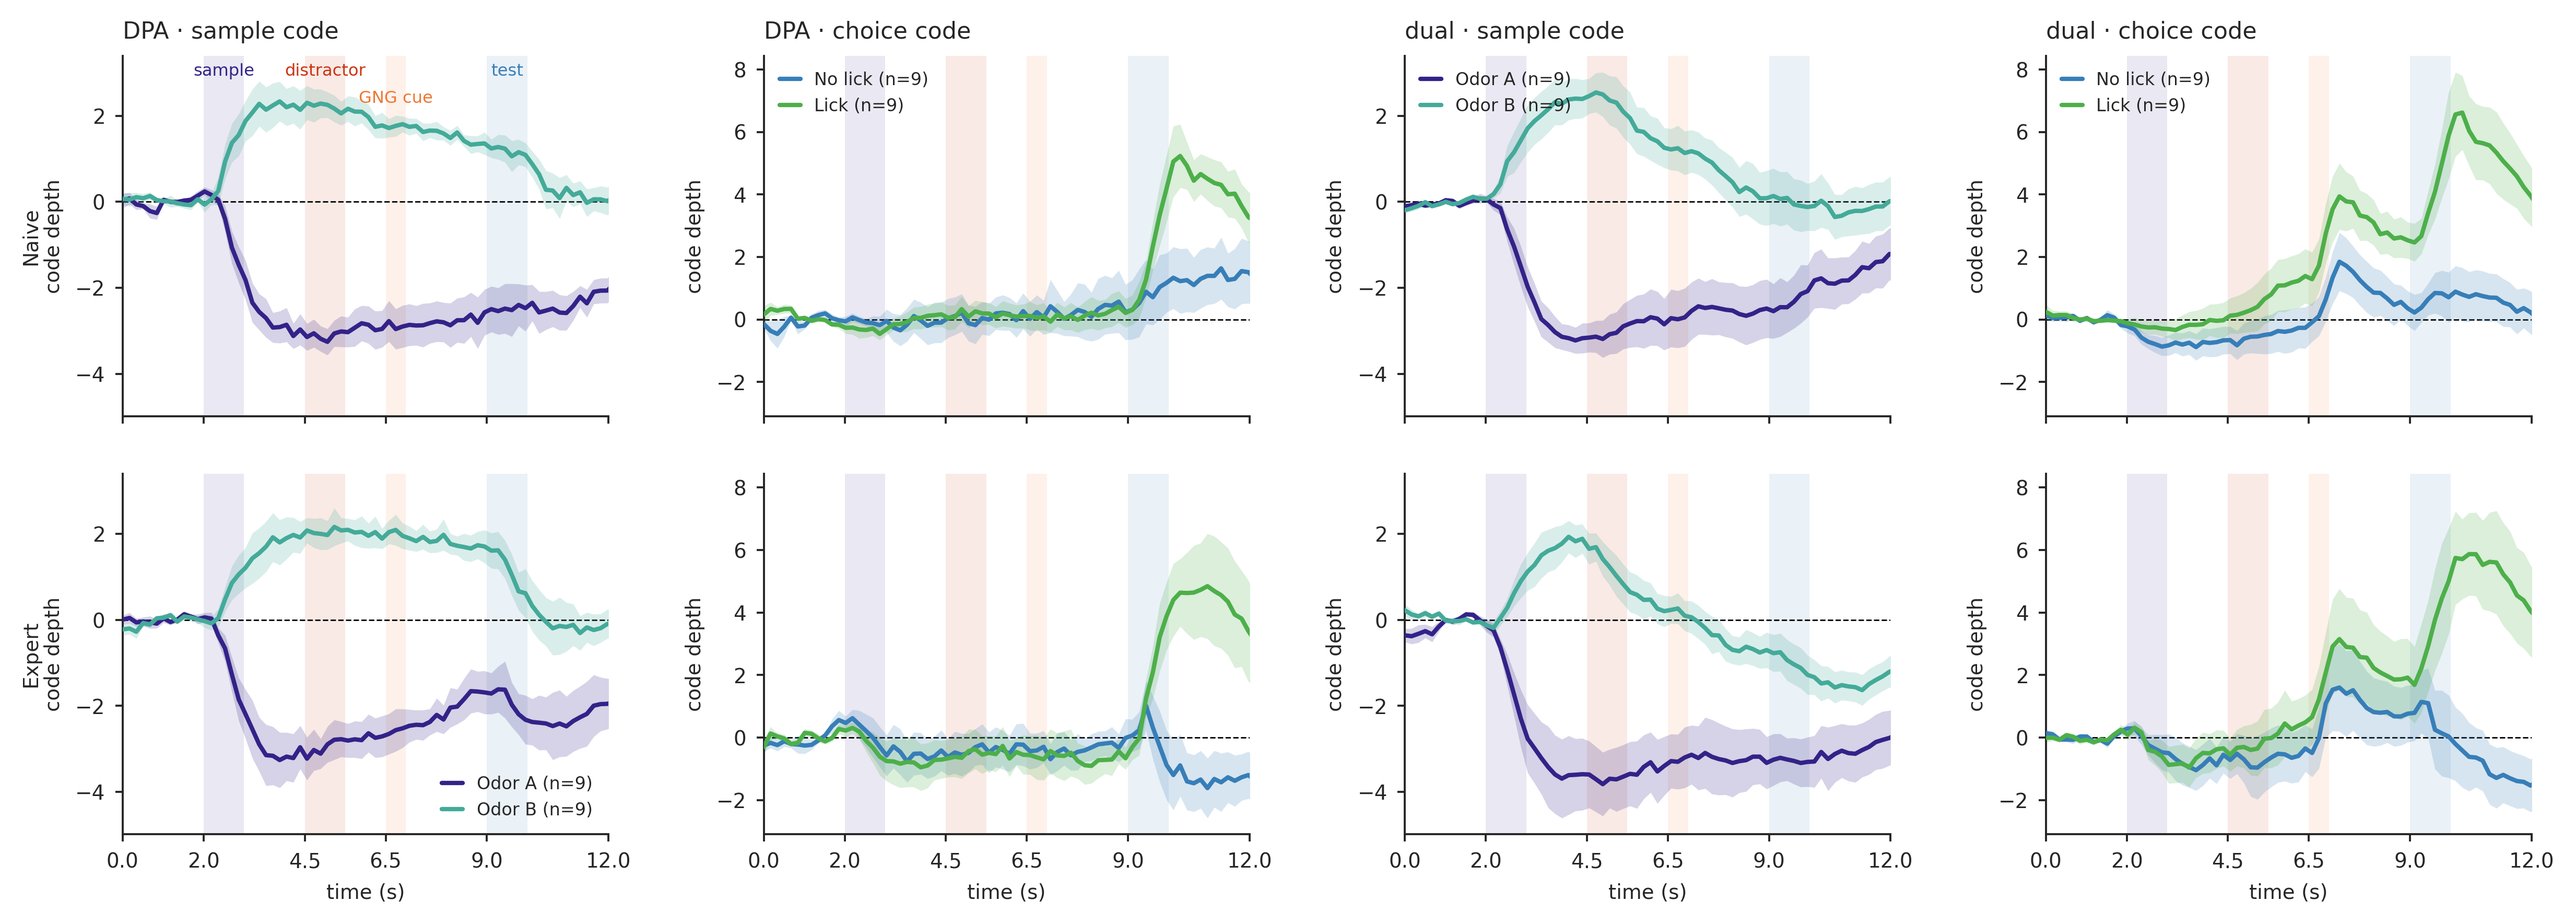
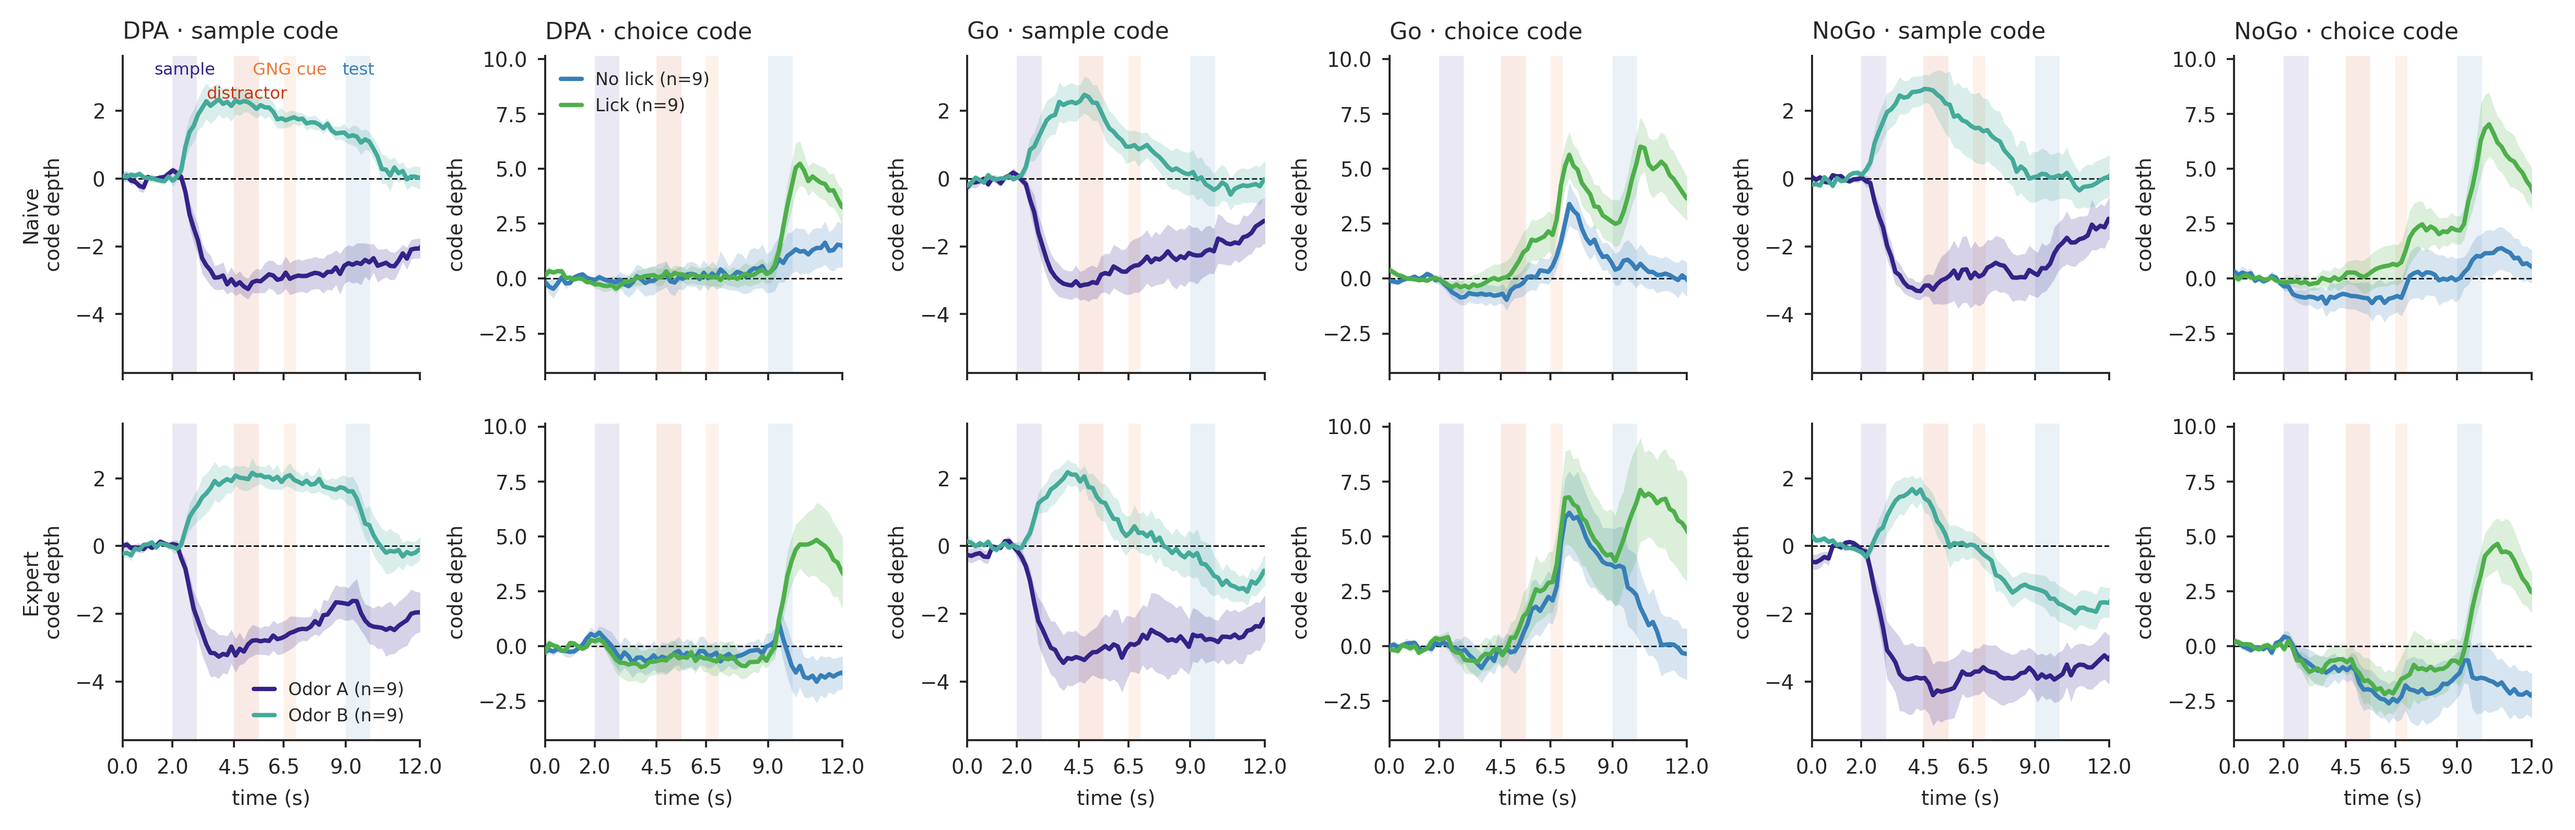
Task-split variant: separate Go and NoGo columns (2x6)
exp_traj_orig.py caches per-task keys (@go/@nogo alongside @dual); the variant
figure becomes DPA | Go | NoGo x sample/choice (rows Naive/Expert, y shared per
code). Go choice shows both classes riding up at the cue (all correct Go trials
lick it) before the test split; NoGo choice shows the Expert withholding dip;
the post-distractor sample decay is visible in both dual tasks. Gallery card
relabelled.

Claude-Session: https://claude.ai/code/session_01U5815xHXRaRQ7YCxMTgCsM

diff --git a/pca/fig_traj_tasksplit.py b/pca/fig_traj_tasksplit.py
@@ -38,15 +38,20 @@ assert TKEY in RES and ('Naive', 'sample@dual', 0) in RES[TKEY], \
     f'missing {TKEY} @dual keys — run exp_traj_orig.py' + (' --pca' if PCA else '')
 TR = RES[TKEY]; xt = np.asarray(RES['ORIG_XTIME'])
 
-# columns: (title, trace key, class labels, class colours)
-COLS = [('DPA · sample code',  'sample',      ['Odor A', 'Odor B'],   [SAMPC[0], SAMPC[1]]),
-        ('DPA · choice code',  'lick',        ['No lick', 'Lick'],    ['#377eb8', '#4daf4a']),
-        ('dual · sample code', 'sample@dual', ['Odor A', 'Odor B'],   [SAMPC[0], SAMPC[1]]),
-        ('dual · choice code', 'lick@dual',   ['No lick', 'Lick'],    ['#377eb8', '#4daf4a'])]
+# columns: (title, trace key, class labels, class colours) — Go and NoGo SEPARATED (2026-08-31)
+SCL = (['Odor A', 'Odor B'], [SAMPC[0], SAMPC[1]])
+LCL = (['No lick', 'Lick'], ['#377eb8', '#4daf4a'])
+COLS = [('DPA · sample code',  'sample',       *SCL),
+        ('DPA · choice code',  'lick',         *LCL),
+        ('Go · sample code',   'sample@go',    *SCL),
+        ('Go · choice code',   'lick@go',      *LCL),
+        ('NoGo · sample code', 'sample@nogo',  *SCL),
+        ('NoGo · choice code', 'lick@nogo',    *LCL)]
 
-# y-limits shared per CODE (both task columns, both stages) — the DPA-vs-dual comparison IS the point
+# y-limits shared per CODE (all task columns, both stages) — the cross-task comparison IS the point
 YL = {}
-for code_group, keys in [('sample', ['sample', 'sample@dual']), ('choice', ['lick', 'lick@dual'])]:
+for code_group, keys in [('sample', ['sample', 'sample@go', 'sample@nogo']),
+                         ('choice', ['lick', 'lick@go', 'lick@nogo'])]:
     lo, hi = 0.0, 0.0
     for key in keys:
         for stage in ['Naive', 'Expert']:
@@ -57,15 +62,15 @@ for code_group, keys in [('sample', ['sample', 'sample@dual']), ('choice', ['lic
     pad = 0.05 * (hi - lo)
     YL[code_group] = (lo - pad, hi + pad)
 
-fig, axs = plt.subplots(2, 4, figsize=(12.4, 4.6), sharex=True)
-fig.subplots_adjust(left=0.055, right=0.985, top=0.92, bottom=0.11, wspace=0.32, hspace=0.16)
+fig, axs = plt.subplots(2, 6, figsize=(12.4, 4.2), sharex=True)
+fig.subplots_adjust(left=0.055, right=0.985, top=0.90, bottom=0.12, wspace=0.42, hspace=0.16)
 for r, stage in enumerate(['Naive', 'Expert']):
     for k, (ttl, key, labs, cols) in enumerate(COLS):
         ax = axs[r, k]
         for ei, (nm, lo, hi, col) in enumerate(EVENTS):
             ax.axvspan(lo, hi, color=col, alpha=0.10, lw=0)
             if r == 0 and k == 0:
-                yl = 0.905 if nm == 'GNG cue' else 0.98      # stagger: it abuts 'distractor'
+                yl = 0.905 if nm == 'distractor' else 0.98   # stagger the wide middle label
                 ax.text((lo + hi) / 2, yl, nm, transform=ax.get_xaxis_transform(),
                         ha='center', va='top', fontsize=5.8, color=col)
         for lv, lab, col in zip((0, 1), labs, cols):
@@ -78,7 +83,7 @@ for r, stage in enumerate(['Naive', 'Expert']):
         ax.set_xlim(0, 12); ax.set_xticks([0, 2, 4.5, 6.5, 9, 12])
         if r == 0:
             ax.set_title(ttl, loc='left', fontsize=TITLE_FS)
-            if k > 0:
+            if k == 1:                              # ONE legend per code type (cols repeat them)
                 ax.legend(frameon=False, fontsize=6.0, handlelength=1.2, loc='upper left')
         else:
             ax.set_xlabel('time (s)', fontsize=7)

diff --git a/pca/exp_traj_orig.py b/pca/exp_traj_orig.py
@@ -29,18 +29,21 @@ for ttl, D, YY, col, levels, labs, cols, task in SPECS:
     META.append(dict(code=code, title=ttl, levels=list(levels), labels=list(labs),
                      colors=list(cols), task=task, column=col))
     # the canonical panel-A trace keeps its historical task filter under the plain key; sample
-    # and lick ALSO get the OTHER task set under a '@dual'/'@DPA' key (2026-08-31, for the
-    # task-split panel-A variant: DPA sample/choice | dual sample/choice)
+    # and lick ALSO get per-task-set keys (2026-08-31, for the task-split panel-A variant):
+    # '@dual' = pooled DualGo+DualNoGo, '@go' / '@nogo' = the two dual tasks separately
     variants = [(task, '')]
     if code in ('sample', 'lick'):
-        variants.append(('Dual' if task == 'DPA' else 'DPA',
-                         '@dual' if task == 'DPA' else '@DPA'))
+        variants += [('Dual', '@dual'), ('DualGo', '@go'), ('DualNoGo', '@nogo')]
     for tsk_v, ksuf in variants:
         for stage in MP.STAGES:
             base = ((YY.laser == 0).to_numpy() & (YY.learning == stage).to_numpy()
                     & (YY.performance == 1).to_numpy())
-            base = base & ((YY.tasks == 'DPA').to_numpy() if tsk_v == 'DPA'
-                           else (YY.tasks != 'DPA').to_numpy())
+            if tsk_v == 'DPA':
+                base = base & (YY.tasks == 'DPA').to_numpy()
+            elif tsk_v == 'Dual':
+                base = base & (YY.tasks != 'DPA').to_numpy()
+            else:
+                base = base & (YY.tasks == tsk_v).to_numpy()
             for lv, lab in zip(levels, labs):
                 per_mouse = []
                 for mo in MP.ALL_MICE:

diff --git a/serve_figures.py b/serve_figures.py
@@ -48,7 +48,7 @@ MAIN = [
      'pca/figures/pseudo/dimensionality/png/fig_manifold_main_pca20.png'),
     ('Fig 3 — ANTACT axis variant  [choice axis trained 48–62 in A+B; centred storyboard near axis-invariant; C–F unchanged]',
      'pca/figures/pseudo/dimensionality/png/fig_manifold_main_antact.png'),
-    ('Fig 3 — panel-A task-split variant  [DPA vs dual reads of sample & choice codes; dual sample decays through the delay, dual choice carries the cue-lick bump]',
+    ('Fig 3 — panel-A task-split variant  [sample & choice codes read per task: DPA | Go | NoGo; dual sample decays post-distractor, Go choice carries the cue-lick bump, NoGo the withholding dip]',
      'pca/figures/pseudo/dimensionality/png/fig_traj_tasksplit.png'),
     # Fig 4/5 — full grid: axis (ACTION 57–62 vs ANTICIPATORY+ACTION 48–62) × normalisation (pooled-evoked vs robust)
     ('Fig 4 — LEARNING · ACTION axis · pooled-evoked  [canonical: align p=.008/.004 ★★, push p=.046 ∗, coupling ρ=−0.83 p=.005 ★]',
